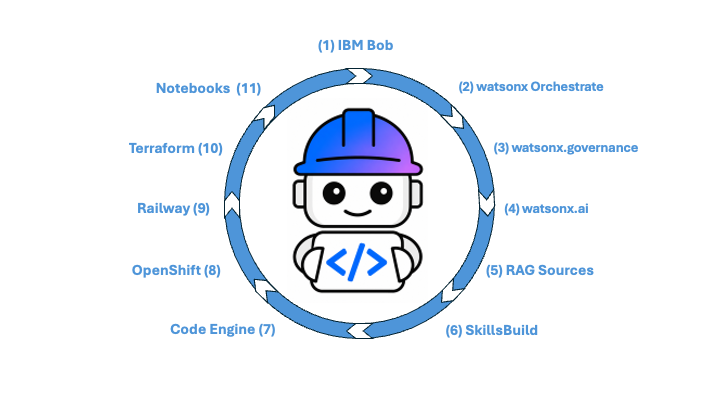
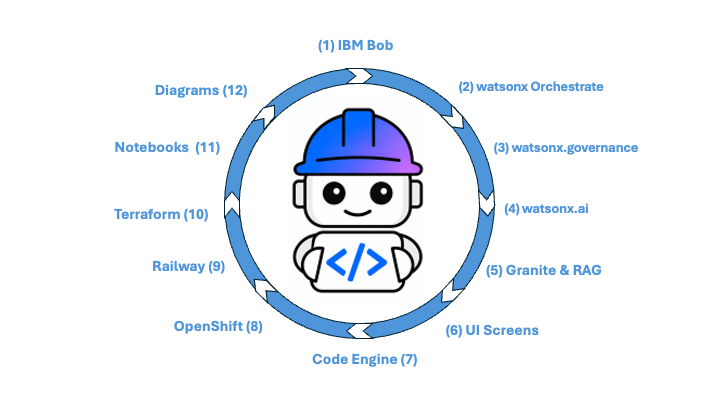
Updated docs.

diff --git a/docs/screens.md b/docs/screens.md
@@ -1,96 +1,14 @@
 # **Mission Veteran AI** *by G3*
 
-#### Screen Descriptions
+#### UI Screens
 
-##### Screen 1: Welcome and Consent
-```
-Review Welcome.
+##### Input Screens
 
-Consent choice: Select I Understand and agree
+![inputstep1-2](missionveteraninputstep1-2.png)
+![inputstep3](missionveteraninputstep3.png)
+![inputstep4-7](missionveteraninputstep4-7.png)
 
-Draft storage: Select Entire session  
-
-Select Continue to Intake
-```
-
-##### Screen 2: Guided Career Intake
-```
-Select branch: Air Force, Army, Coast Guard, Marine Corps, etc
-
-Specialty code: (Choose specialty code for selected branch) 
-
-Service resume: (Drag & drop resume or upload local file)
-
-Target career path: (Preset from speciality code or enter your own)
-Note the disclaimer if user enters their own.
-
-Target career role: (Select from predefined list or enter your own)
-Note the disclaimer if user enters their own.
-
-Select Translate Accomplishments
-
-Review translated, make changes as needed, select translate again.
-
-Select Continue to Job Description
-
-```
-
-##### Screen 3: Job Description Analysis
-```
-Job description text: (Drag & drop description or upload local file)
-
-Select Analyze Job Description
-
-Review job analysis, make changes as needed, select analyze again.
-
-Select Continue to Skill Mapping
-```
-
-##### Screen 4: Civilian Skill Profile & Gap Analysis
-```
-Select Map Skills & Analyze Gaps
-
-Review career path coverage and civilian skill inventory
-
-Select Continue to Resume Draft
-```
-
-##### Screen 5: Resume Builder
-```
-Select Build Tagged Resume Draft
-
-Review resume draft:
-- EVIDENCED is already validated.
-- INFERRED should already have.
-Note: Review where inferred from and select Add or Delete.
-- MISSING but required in job description.
-Note: Review whether already have and select Add or Delete. 
-
-Select Continue to Interview Prep
-```
-
-##### Screen 6: Interview Preparation
-```
-Select Generate Interview Prep
-
-Interview prep is displayed as flashcards.
-Questions are initially displayed.
-To view response select “Tap to see STAR response”.
-To return to question select “Tap to return to question”.
-```
-
-##### Screen 7: Export Gate & Final Package
-```
-Select Evaluate Gate
-
-Review gate details
-
-Select Continue to Export Gate
-
-Save Final Resume draft as either .txt file or .docx file.
-
-Save Interview Prep as either .txt file or .docx file.
-```
+##### Output Screens
 
 ---
 

diff --git a/README.md b/README.md
@@ -40,8 +40,6 @@ Mission Veteran AI (by Golden Gate Glory or G3) is an AI-powered career chatbot,
 Other documents: 
 - [Problem and Solution](docs/problem.md)
 - [Technology Used](docs/technology.md)
-- [Full Architecture](docs/architecture.md)
-- [Dual Environments](docs/environment.md)
 
 ---
 
